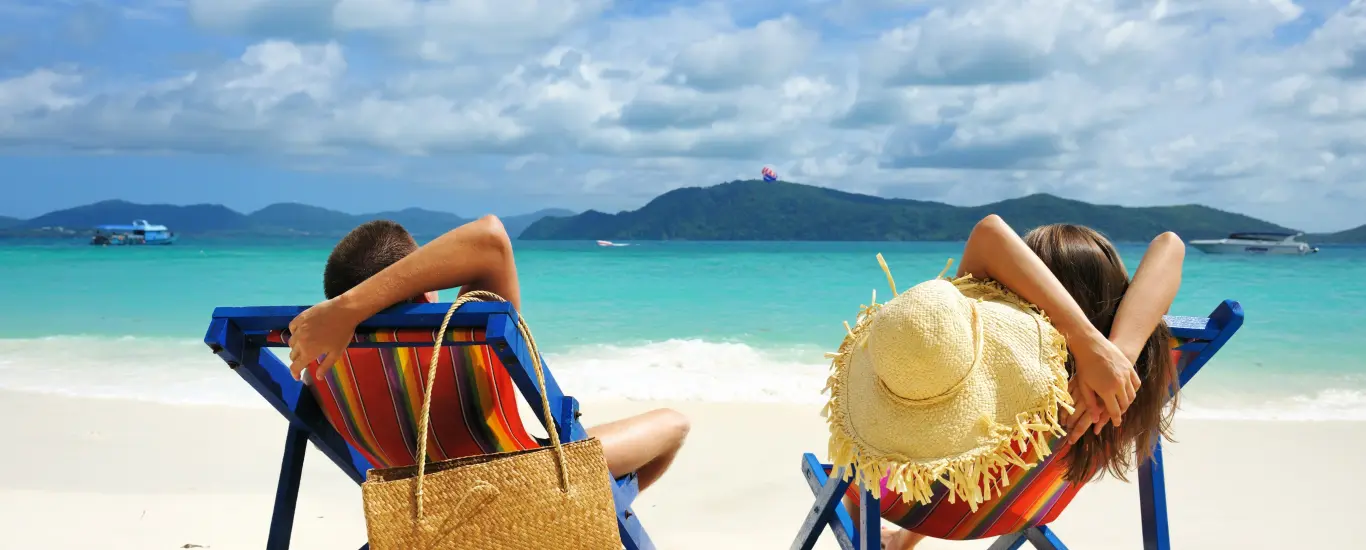
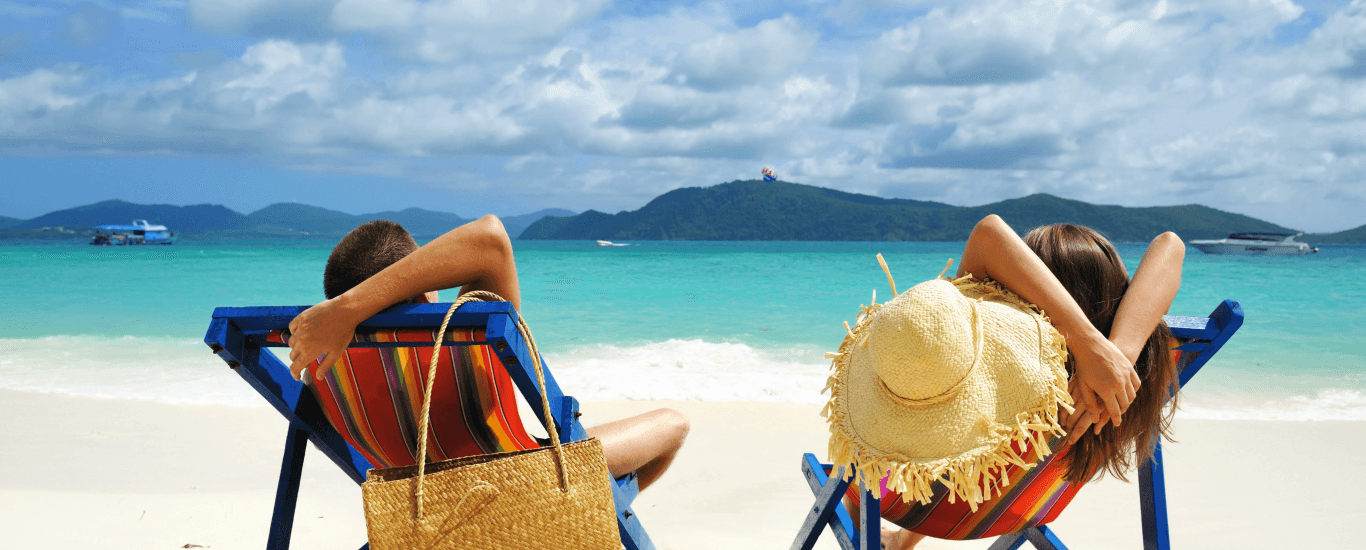
build

diff --git a/docs/index.html b/docs/index.html
@@ -6,7 +6,6 @@
   <meta charset="UTF-8">
   <link rel="icon" type="image/svg+xml" href="./assets/images/icons/logo.svg">
   <meta name="viewport" content="width=device-width, initial-scale=1.0">
-
   <title>Club Travel</title>
   <script type="module" crossorigin src="./assets/main-sKl4DdhZ.js"></script>
   <link rel="modulepreload" crossorigin href="./assets/modulepreload-polyfill-B5Qt9EMX.js">
@@ -39,7 +38,7 @@
           <div class="header__info-links">
             <a href="/ClubTravel/src/pages/text__page/text__page.html" class="header__info-link">Страховки </a>
   
-            <a href="#" class="header__info-link">Визы </a>
+            <a href="/ClubTravel/src/pages/text__page/text__page.html" class="header__info-link">Визы </a>
   
             <a href="/ClubTravel/src/pages/contacts/contacts.html" class="header__info-link">Контакты</a>
           </div>
@@ -76,7 +75,7 @@
             </a>
   
             <div class="header__personal-country">
-              <img src="./assets/language-BXgfbAvQ.svg" alt="country" width="24" height="24">
+              <img src="./assets/language-CqOaY0br.svg" alt="country" width="24" height="24">
             </div>
           </div>
         </div>
@@ -112,7 +111,7 @@
           </div>
   
           <div class="header__nav-item">
-            <a href="/src/pages/tour-request/tour-request.html" class="header__nav-link">Запрос тура</a>
+            <a href="/ClubTravel/src/pages/tour-request/tour-request.html" class="header__nav-link">Запрос тура</a>
           </div>
   
           <div class="header__nav-item">
@@ -185,7 +184,7 @@
   
           <div class="sidebar__country">
             <div class="sidebar__country-img">
-              <img src="./assets/language-BXgfbAvQ.svg" alt="country" width="24" height="24">
+              <img src="./assets/language-CqOaY0br.svg" alt="country" width="24" height="24">
             </div>
   
             <div class="sidebar__country-text">
@@ -202,15 +201,16 @@
     
         <div class='banner__img-wrapper'>
           <picture>
+            <source media="(max-width: 1023px)" srcset="./assets/banner-img-mob-Cc-m_R7P.webp" type="image/webp">
+    
+            <source media="(max-width: 1023px)" srcset="./assets/banner-img-mob-CpCIhp3N.jpg">
+          
             <source srcset="./assets/banner-img-D7YMtw1c.webp" type="image/webp">
             <source srcset="./assets/banner-img-mob-Cc-m_R7P.webp" type="image/webp">
           
             <source media="(max-width:1023px)" srcset="./assets/banner-img-mob-CpCIhp3N.jpg">
           
             <img class='banner__img ' src="./assets/banner-img-O0ey2giV.jpg" width="1366" height="320" alt="banner">
-            <source srcset="./assets/banner-img-D7YMtw1c.webp" type="image/webp">
-            
-            <img class="banner__img " src="./assets/banner-img-O0ey2giV.jpg" alt="banner">
           </picture>
         </div>
     
@@ -222,26 +222,25 @@
             <ul class="banner__stars-list">
               <li class="banner__star-item">
                 <svg class="icon icon--star">
-                  <use xlink:href="./assets/sprite-BP-qpDDo.svg#star"></use>
+                  <use xlink:href="./assets/sprite-DYhCQRiV.svg#star"></use>
                 </svg>
               </li>
     
               <li class="banner__star-item">
                 <svg class="icon icon--star">
-                  <use xlink:href="./assets/sprite-BP-qpDDo.svg#star"></use>
+                  <use xlink:href="./assets/sprite-DYhCQRiV.svg#star"></use>
                 </svg>
               </li>
     
               <li class="banner__star-item">
                 <svg class="icon icon--star">
-                  <use xlink:href="./assets/sprite-BP-qpDDo.svg#star"></use>
-                  <use xlink:href="./assets/sprite-BP-qpDDo.svg#star"></use>
+                  <use xlink:href="./assets/sprite-DYhCQRiV.svg#star"></use>
                 </svg>
               </li>
     
               <li class="banner__star-item">
                 <svg class="icon icon--cross">
-                  <use xlink:href="./assets/sprite-BP-qpDDo.svg#cross"></use>
+                  <use xlink:href="./assets/sprite-DYhCQRiV.svg#cross"></use>
                 </svg>
               </li>
             </ul>
@@ -2175,7 +2174,7 @@
                     <li class="offer__consultant-item">
                       <a href="#" class="offer__consultant-link">
                         <svg class="icon icon--phone">
-                          <use xlink:href="./assets/sprite-BP-qpDDo.svg#phone"></use>
+                          <use xlink:href="./assets/sprite-DYhCQRiV.svg#phone"></use>
                         </svg>
     
                         <span class="offer__consultant-link-text">+372 6 130 633</span>
@@ -2185,7 +2184,7 @@
                     <li class="offer__consultant-item">
                       <a href="#" class="offer__consultant-link">
                         <svg class="icon icon--envelope">
-                          <use xlink:href="./assets/sprite-BP-qpDDo.svg#envelope"></use>
+                          <use xlink:href="./assets/sprite-DYhCQRiV.svg#envelope"></use>
                         </svg>
     
                         <span class="offer__consultant-link-text">contact@email.ee</span>
@@ -2195,7 +2194,7 @@
                     <li class="offer__consultant-item">
                       <a href="#" class="offer__consultant-link">
                         <svg class="icon icon--message">
-                          <use xlink:href="./assets/sprite-BP-qpDDo.svg#message"></use>
+                          <use xlink:href="./assets/sprite-DYhCQRiV.svg#message"></use>
                         </svg>
     
                         <span class="offer__consultant-link-text">Написать в Messenger</span>
@@ -2267,7 +2266,7 @@
             <ul class="footer__contact-list">
               <li class="footer__contact-item">
                 <svg class="icon icon--clock">
-                  <use xlink:href="./assets/sprite-BP-qpDDo.svg#clock"></use>
+                  <use xlink:href="./assets/sprite-DYhCQRiV.svg#clock"></use>
                 </svg>
   
                 <span class="footer__contact-text">Пн-Пт 9:30-18:00, Сб 11:00-15:00</span>
@@ -2275,7 +2274,7 @@
   
               <li class="footer__contact-item">
                 <svg class="icon icon--location">
-                  <use xlink:href="./assets/sprite-BP-qpDDo.svg#location"></use>
+                  <use xlink:href="./assets/sprite-DYhCQRiV.svg#location"></use>
                 </svg>
   
                 <span class="footer__contact-text">Narva mnt 7D, Tallinn (корпус B) 4 этаж</span>
@@ -2283,7 +2282,7 @@
   
               <li class="footer__contact-item">
                 <svg class="icon icon--phone">
-                  <use xlink:href="./assets/sprite-BP-qpDDo.svg#phone"></use>
+                  <use xlink:href="./assets/sprite-DYhCQRiV.svg#phone"></use>
                 </svg>
   
                 <div class="footer__contact-link-wrapper">
@@ -2295,7 +2294,7 @@
   
               <li class="footer__contact-item">
                 <svg class="icon icon--message">
-                  <use xlink:href="./assets/sprite-BP-qpDDo.svg#message"></use>
+                  <use xlink:href="./assets/sprite-DYhCQRiV.svg#message"></use>
                 </svg>
   
                 <a href="mailto:info@clubstravel.ee" class="footer__contact-link">info@clubstravel.ee</a>
@@ -2307,7 +2306,7 @@
         <div class="footer__social">
           <div>
             <div class="footer__social-link-wrapper">
-              <img src="./assets/instagram-DlvTGCv8.svg" alt="instagram" width="24" height="24">
+              <img src="./assets/instagram-BunP0XZl.svg" alt="instagram" width="24" height="24">
   
               <a href="#" class="footer__social-link">@booking.clubstravel.ee</a>
             </div>
@@ -2335,7 +2334,6 @@
       </div>
     </div>
   </footer>
-
 </body>
 
 </html>

diff --git a/docs/src/pages/company/company.html b/docs/src/pages/company/company.html
@@ -5,7 +5,6 @@
   <meta charset="UTF-8">
   <link rel="icon" type="image/svg+xml" href="../../../assets/images/icons/logo.svg">
   <meta name="viewport" content="width=device-width, initial-scale=1.0">
-
   <title>Club Travel</title>
   <script type="module" crossorigin src="../../../assets/company-Cwm-p-dX.js"></script>
   <link rel="modulepreload" crossorigin href="../../../assets/modulepreload-polyfill-B5Qt9EMX.js">
@@ -33,7 +32,7 @@
           <div class="header__info-links">
             <a href="/ClubTravel/src/pages/text__page/text__page.html" class="header__info-link">Страховки </a>
   
-            <a href="#" class="header__info-link">Визы </a>
+            <a href="/ClubTravel/src/pages/text__page/text__page.html" class="header__info-link">Визы </a>
   
             <a href="/ClubTravel/src/pages/contacts/contacts.html" class="header__info-link">Контакты</a>
           </div>
@@ -70,7 +69,7 @@
             </a>
   
             <div class="header__personal-country">
-              <img src="../../../assets/language-BXgfbAvQ.svg" alt="country" width="24" height="24">
+              <img src="../../../assets/language-CqOaY0br.svg" alt="country" width="24" height="24">
             </div>
           </div>
         </div>
@@ -106,7 +105,7 @@
           </div>
   
           <div class="header__nav-item">
-            <a href="/src/pages/tour-request/tour-request.html" class="header__nav-link">Запрос тура</a>
+            <a href="/ClubTravel/src/pages/tour-request/tour-request.html" class="header__nav-link">Запрос тура</a>
           </div>
   
           <div class="header__nav-item">
@@ -206,9 +205,6 @@
             <source media="(max-width:1023px)" srcset="../../../assets/banner-img-mob-CpCIhp3N.jpg">
           
             <img class='banner__img ' src="../../../assets/banner-img-O0ey2giV.jpg" width="1366" height="320" alt="banner">
-            <source srcset="../../../assets/banner-img-D7YMtw1c.webp" type="image/webp">
-            
-            <img class="banner__img " src="../../../assets/banner-img-O0ey2giV.jpg" alt="banner">
           </picture>
         </div>
     

diff --git a/docs/src/pages/authorization/authorization.html b/docs/src/pages/authorization/authorization.html
@@ -34,7 +34,7 @@
             <div class="header__info-links">
               <a href="/ClubTravel/src/pages/text__page/text__page.html" class="header__info-link">Страховки </a>
     
-              <a href="#" class="header__info-link">Визы </a>
+              <a href="/ClubTravel/src/pages/text__page/text__page.html" class="header__info-link">Визы </a>
     
               <a href="/ClubTravel/src/pages/contacts/contacts.html" class="header__info-link">Контакты</a>
             </div>
@@ -107,7 +107,7 @@
             </div>
     
             <div class="header__nav-item">
-              <a href="/src/pages/tour-request/tour-request.html" class="header__nav-link">Запрос тура</a>
+              <a href="/ClubTravel/src/pages/tour-request/tour-request.html" class="header__nav-link">Запрос тура</a>
             </div>
     
             <div class="header__nav-item">

diff --git a/docs/src/pages/contacts/contacts.html b/docs/src/pages/contacts/contacts.html
@@ -35,7 +35,7 @@
             <div class="header__info-links">
               <a href="/ClubTravel/src/pages/text__page/text__page.html" class="header__info-link">Страховки </a>
     
-              <a href="#" class="header__info-link">Визы </a>
+              <a href="/ClubTravel/src/pages/text__page/text__page.html" class="header__info-link">Визы </a>
     
               <a href="/ClubTravel/src/pages/contacts/contacts.html" class="header__info-link">Контакты</a>
             </div>
@@ -108,7 +108,7 @@
             </div>
     
             <div class="header__nav-item">
-              <a href="/src/pages/tour-request/tour-request.html" class="header__nav-link">Запрос тура</a>
+              <a href="/ClubTravel/src/pages/tour-request/tour-request.html" class="header__nav-link">Запрос тура</a>
             </div>
     
             <div class="header__nav-item">

diff --git a/docs/src/pages/directions-tour/directions-tour.html b/docs/src/pages/directions-tour/directions-tour.html
@@ -34,7 +34,7 @@
             <div class="header__info-links">
               <a href="/ClubTravel/src/pages/text__page/text__page.html" class="header__info-link">Страховки </a>
     
-              <a href="#" class="header__info-link">Визы </a>
+              <a href="/ClubTravel/src/pages/text__page/text__page.html" class="header__info-link">Визы </a>
     
               <a href="/ClubTravel/src/pages/contacts/contacts.html" class="header__info-link">Контакты</a>
             </div>
@@ -107,7 +107,7 @@
             </div>
     
             <div class="header__nav-item">
-              <a href="/src/pages/tour-request/tour-request.html" class="header__nav-link">Запрос тура</a>
+              <a href="/ClubTravel/src/pages/tour-request/tour-request.html" class="header__nav-link">Запрос тура</a>
             </div>
     
             <div class="header__nav-item">

diff --git a/docs/src/pages/forgot-password/forgot-password.html b/docs/src/pages/forgot-password/forgot-password.html
@@ -35,7 +35,7 @@
             <div class="header__info-links">
               <a href="/ClubTravel/src/pages/text__page/text__page.html" class="header__info-link">Страховки </a>
     
-              <a href="#" class="header__info-link">Визы </a>
+              <a href="/ClubTravel/src/pages/text__page/text__page.html" class="header__info-link">Визы </a>
     
               <a href="/ClubTravel/src/pages/contacts/contacts.html" class="header__info-link">Контакты</a>
             </div>
@@ -108,7 +108,7 @@
             </div>
     
             <div class="header__nav-item">
-              <a href="/src/pages/tour-request/tour-request.html" class="header__nav-link">Запрос тура</a>
+              <a href="/ClubTravel/src/pages/tour-request/tour-request.html" class="header__nav-link">Запрос тура</a>
             </div>
     
             <div class="header__nav-item">

diff --git a/docs/src/pages/registration/registration.html b/docs/src/pages/registration/registration.html
@@ -35,7 +35,7 @@
             <div class="header__info-links">
               <a href="/ClubTravel/src/pages/text__page/text__page.html" class="header__info-link">Страховки </a>
     
-              <a href="#" class="header__info-link">Визы </a>
+              <a href="/ClubTravel/src/pages/text__page/text__page.html" class="header__info-link">Визы </a>
     
               <a href="/ClubTravel/src/pages/contacts/contacts.html" class="header__info-link">Контакты</a>
             </div>
@@ -108,7 +108,7 @@
             </div>
     
             <div class="header__nav-item">
-              <a href="/src/pages/tour-request/tour-request.html" class="header__nav-link">Запрос тура</a>
+              <a href="/ClubTravel/src/pages/tour-request/tour-request.html" class="header__nav-link">Запрос тура</a>
             </div>
     
             <div class="header__nav-item">

diff --git a/docs/src/pages/user-account/user-account.html b/docs/src/pages/user-account/user-account.html
@@ -32,7 +32,7 @@
             <div class="header__info-links">
               <a href="/ClubTravel/src/pages/text__page/text__page.html" class="header__info-link">Страховки </a>
     
-              <a href="#" class="header__info-link">Визы </a>
+              <a href="/ClubTravel/src/pages/text__page/text__page.html" class="header__info-link">Визы </a>
     
               <a href="/ClubTravel/src/pages/contacts/contacts.html" class="header__info-link">Контакты</a>
             </div>
@@ -105,7 +105,7 @@
             </div>
     
             <div class="header__nav-item">
-              <a href="/src/pages/tour-request/tour-request.html" class="header__nav-link">Запрос тура</a>
+              <a href="/ClubTravel/src/pages/tour-request/tour-request.html" class="header__nav-link">Запрос тура</a>
             </div>
     
             <div class="header__nav-item">

diff --git a/docs/src/pages/hot-offers/hot-offers.html b/docs/src/pages/hot-offers/hot-offers.html
@@ -36,7 +36,7 @@
           <div class="header__info-links">
             <a href="/ClubTravel/src/pages/text__page/text__page.html" class="header__info-link">Страховки </a>
   
-            <a href="#" class="header__info-link">Визы </a>
+            <a href="/ClubTravel/src/pages/text__page/text__page.html" class="header__info-link">Визы </a>
   
             <a href="/ClubTravel/src/pages/contacts/contacts.html" class="header__info-link">Контакты</a>
           </div>
@@ -109,7 +109,7 @@
           </div>
   
           <div class="header__nav-item">
-            <a href="/src/pages/tour-request/tour-request.html" class="header__nav-link">Запрос тура</a>
+            <a href="/ClubTravel/src/pages/tour-request/tour-request.html" class="header__nav-link">Запрос тура</a>
           </div>
   
           <div class="header__nav-item">

diff --git a/docs/src/pages/hotel-card/hotel-card.html b/docs/src/pages/hotel-card/hotel-card.html
@@ -38,7 +38,7 @@
           <div class="header__info-links">
             <a href="/ClubTravel/src/pages/text__page/text__page.html" class="header__info-link">Страховки </a>
   
-            <a href="#" class="header__info-link">Визы </a>
+            <a href="/ClubTravel/src/pages/text__page/text__page.html" class="header__info-link">Визы </a>
   
             <a href="/ClubTravel/src/pages/contacts/contacts.html" class="header__info-link">Контакты</a>
           </div>
@@ -111,7 +111,7 @@
           </div>
   
           <div class="header__nav-item">
-            <a href="/src/pages/tour-request/tour-request.html" class="header__nav-link">Запрос тура</a>
+            <a href="/ClubTravel/src/pages/tour-request/tour-request.html" class="header__nav-link">Запрос тура</a>
           </div>
   
           <div class="header__nav-item">

diff --git a/docs/src/pages/search-result/search-result.html b/docs/src/pages/search-result/search-result.html
@@ -40,7 +40,7 @@
           <div class="header__info-links">
             <a href="/ClubTravel/src/pages/text__page/text__page.html" class="header__info-link">Страховки </a>
   
-            <a href="#" class="header__info-link">Визы </a>
+            <a href="/ClubTravel/src/pages/text__page/text__page.html" class="header__info-link">Визы </a>
   
             <a href="/ClubTravel/src/pages/contacts/contacts.html" class="header__info-link">Контакты</a>
           </div>
@@ -113,7 +113,7 @@
           </div>
   
           <div class="header__nav-item">
-            <a href="/src/pages/tour-request/tour-request.html" class="header__nav-link">Запрос тура</a>
+            <a href="/ClubTravel/src/pages/tour-request/tour-request.html" class="header__nav-link">Запрос тура</a>
           </div>
   
           <div class="header__nav-item">

diff --git a/docs/src/pages/text__page/text__page.html b/docs/src/pages/text__page/text__page.html
@@ -33,7 +33,7 @@
           <div class="header__info-links">
             <a href="/ClubTravel/src/pages/text__page/text__page.html" class="header__info-link">Страховки </a>
   
-            <a href="#" class="header__info-link">Визы </a>
+            <a href="/ClubTravel/src/pages/text__page/text__page.html" class="header__info-link">Визы </a>
   
             <a href="/ClubTravel/src/pages/contacts/contacts.html" class="header__info-link">Контакты</a>
           </div>
@@ -106,7 +106,7 @@
           </div>
   
           <div class="header__nav-item">
-            <a href="/src/pages/tour-request/tour-request.html" class="header__nav-link">Запрос тура</a>
+            <a href="/ClubTravel/src/pages/tour-request/tour-request.html" class="header__nav-link">Запрос тура</a>
           </div>
   
           <div class="header__nav-item">
